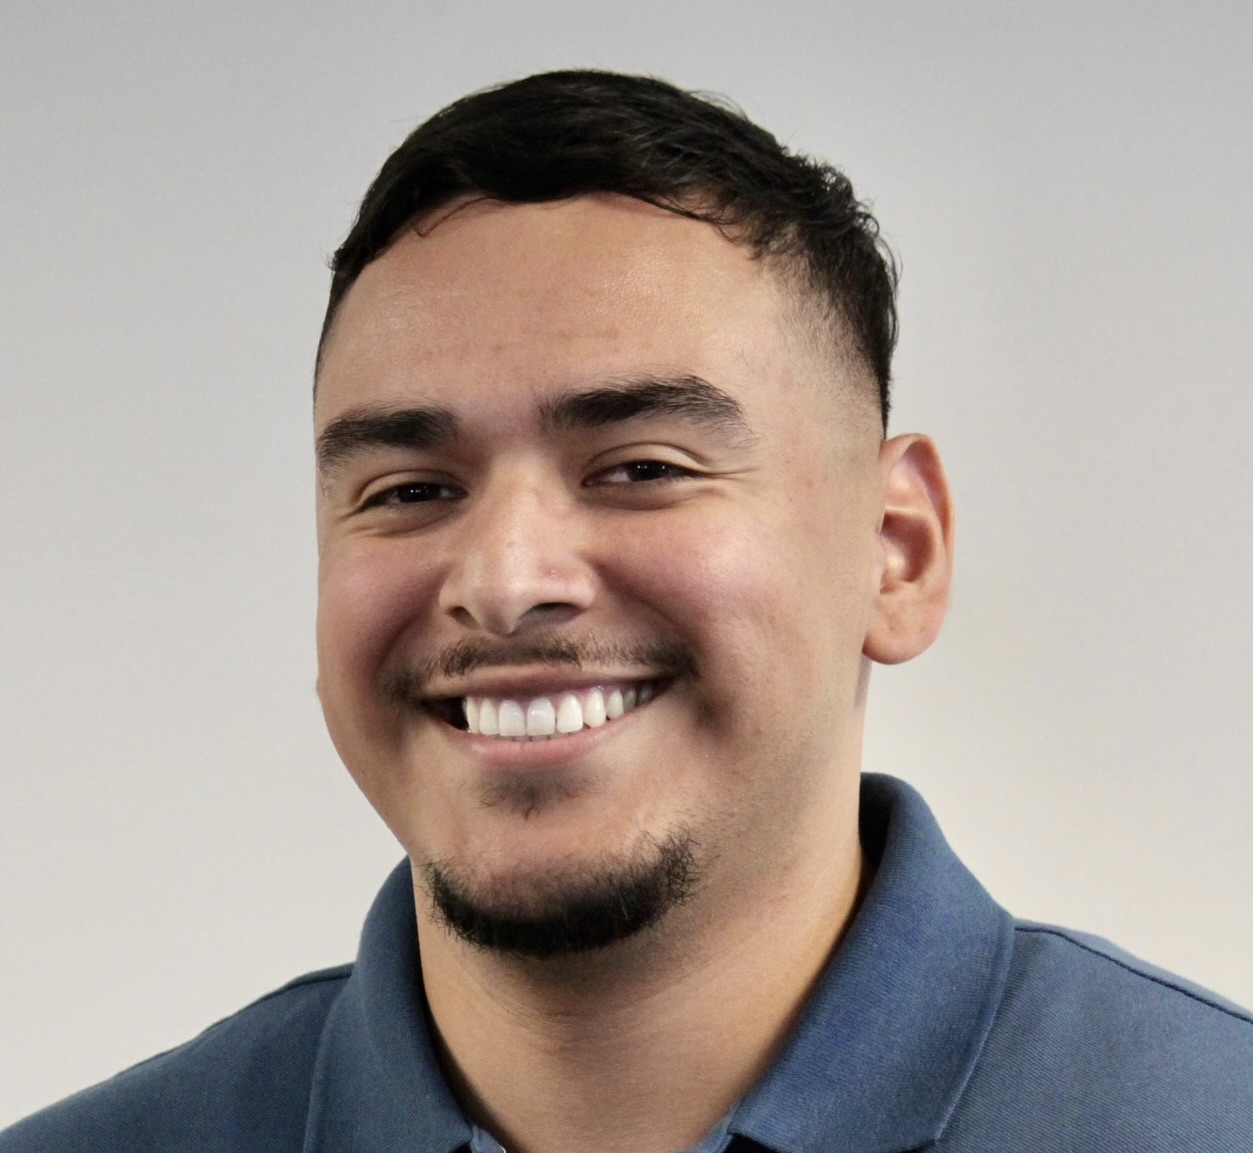
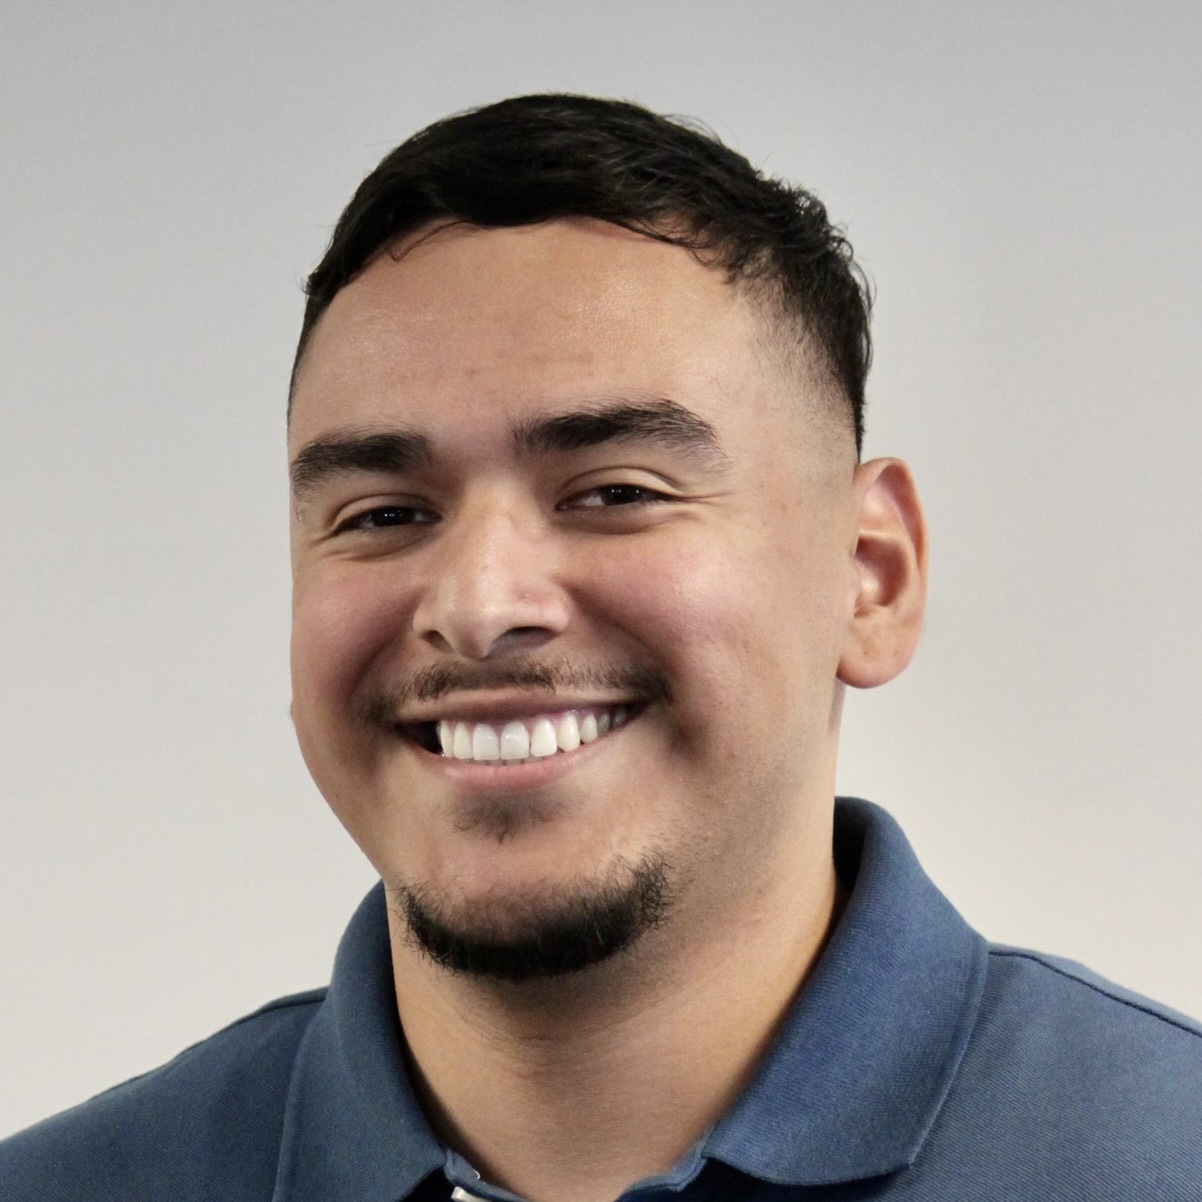
Updates to aboutUs page

diff --git a/aboutUs.html b/aboutUs.html
@@ -19,28 +19,21 @@
 <body>
 <!-- partial: header end -->
 <!-- partial: member navbar start -->
-<nav class="navbar navbar-expand-lg navbar-dark bg-dark"
-     style="background-image: linear-gradient(to right, #122663, #5DD7AD);">
+<nav class="navbar navbar-expand-lg navbar-dark bg-dark fixed-top"
+     style="background-image: linear-gradient(170deg, #122663, #5DD7AD);">
     <div class="container-fluid">
-        <a class="navbar-brand" href="#"><img src="../img/LOGO/logo.png" alt="Home" width="40px"></a>
+        <a class="navbar-brand"> <!--th:href="@{/landing}">--><img src="../img/LOGO/logo.png" alt="Home" width="40px"></a>
         <button class="navbar-toggler" type="button" data-bs-toggle="collapse" data-bs-target="#navbarNavAltMarkup"
                 aria-controls="navbarNavAltMarkup" aria-expanded="false" aria-label="Toggle navigation">
             <span class="navbar-toggler-icon"></span>
         </button>
-        <div class="collapse navbar-collapse" id="navbarNavAltMarkup">
-            <div class="navbar-nav">
-                <a class="nav-link" aria-current="page" href="member_profile.html">Home</a>
-                <a class="nav-link active" href="../all.html">Reservations</a>
-                <a class="nav-link" href="request.html">Request a Hotel</a>
-                <a class="nav-link" href="login.html">Logout</a>
-            </div>
-        </div>
+        <a class="nav-link" style="color: white"> <!--th:href="@{/login}">-->Login</a>
     </div>
 </nav>
 <!-- partial: member navbar end -->
 <div class="container-md">
     <div class="position-absolute top-50 start-50 translate-middle d-flex flex-row align-items-center">
-        <div class="card aboutUsCards" style="width: 18rem;">
+        <div class="card aboutUsCards box box1" style="width: 18rem;">
             <img src="img/AboutUsPhotos/mia.png" class="card-img-top" alt="...">
             <div class="card-body; circular--landscape">
                 <div class="flex-column nameCard">
@@ -50,8 +43,8 @@
                 </div>
             </div>
         </div>
-        <div class="card aboutUsCards" style="width: 18rem;">
-            <img src="img/AboutUsPhotos/julian.jpeg" class="card-img-top" alt="...">
+        <div class="card aboutUsCards box box1" style="width: 18rem;">
+            <img src="img/AboutUsPhotos/julian.png" class="card-img-top" alt="...">
             <div class="card-body; circular--landscape">
                 <div class="flex-column nameCard">
                     <p>Julian Gutierrez</p>
@@ -60,7 +53,7 @@
                 </div>
             </div>
         </div>
-        <div class="card aboutUsCards" style="width: 18rem;">
+        <div class="card aboutUsCards box box1" style="width: 18rem;">
             <img src="img/AboutUsPhotos/cody.jpeg" class="card-img-top" alt="...">
             <div class="card-body; circular--landscape">
                 <div class="flex-column nameCard">
@@ -70,7 +63,7 @@
                 </div>
             </div>
         </div>
-        <div class="card aboutUsCards" style="width: 18rem;">
+        <div class="card aboutUsCards box box1" style="width: 18rem;">
             <img src="img/AboutUsPhotos/cris.jpg" class="card-img-top" alt="...">
             <div class="card-body; circular--landscape">
                 <div class="flex-column nameCard">

diff --git a/css/style.css b/css/style.css
@@ -215,3 +215,12 @@ input:checked + label {
     max-height: 100%;
 }
 
+.box img {
+    width: 100%;
+    height: 100%;
+}
+
+.box1 img {
+    object-fit: cover;
+}
+
